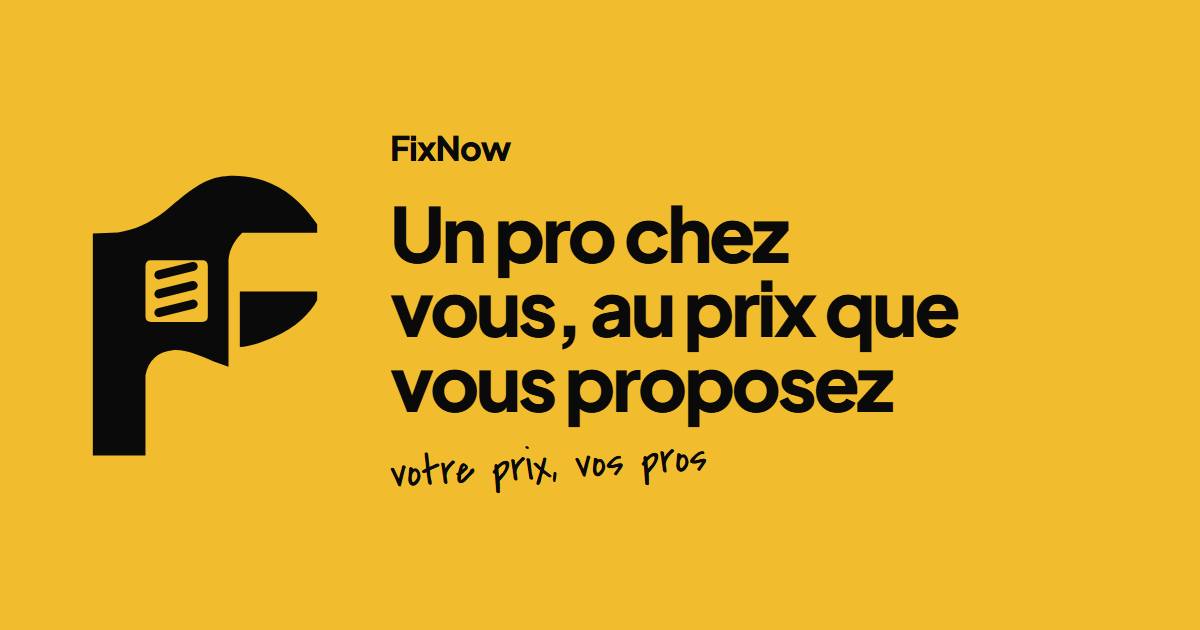
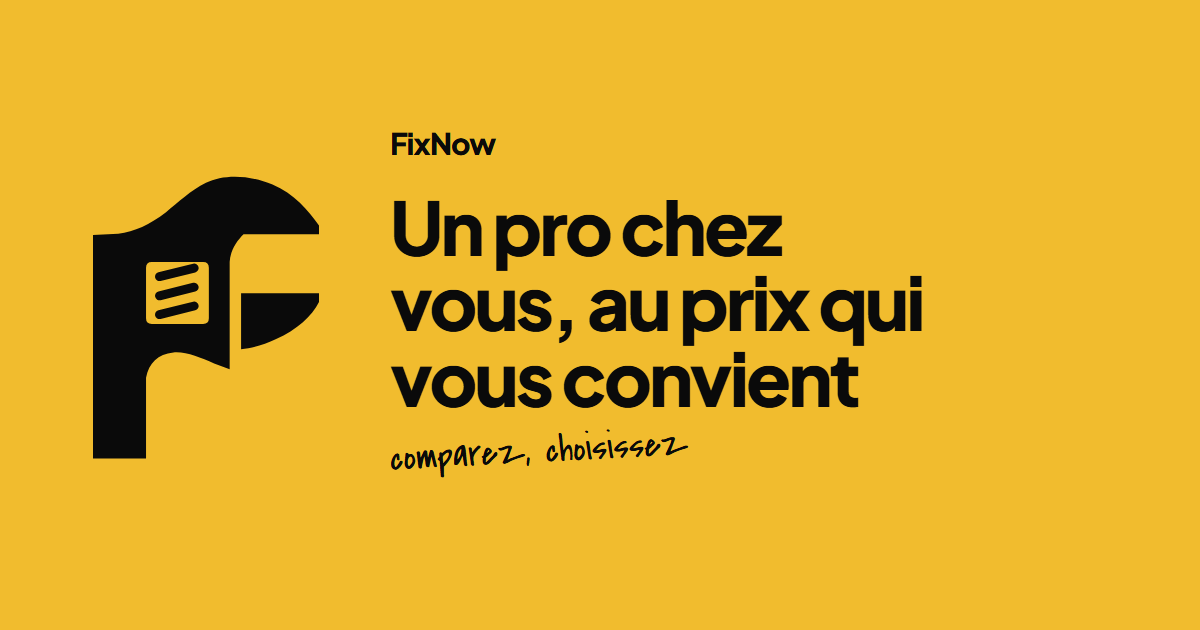
fix: décrire correctement le fonctionnement (offres des prestataires)
Ce n'est pas le client qui fixe le prix : il décrit son besoin, reçoit
les offres chiffrées de prestataires proches, les compare (prix, note,
délai) et choisit la meilleure, ou fait une contre-offre.

- accueil : meta description, Open Graph / Twitter, H1, phrase d'accroche,
  « Qu'est-ce que FixNow ? », étapes 1 et 2, section prestataires
- slogan « votre prix, vos pros » → « comparez, choisissez »
  (hero, pied de page, barre mobile, sous-ensemble de police)
- JSON-LD : description du MobileApplication
- /download/ : meta description et og:description
- llms.txt : intro et ligne « Fonctionnement »
- og-image.png régénérée avec les nouveaux textes (?v=2 pour les caches)

diff --git a/index.html b/index.html
@@ -39,7 +39,7 @@ function fixnowPlayUrl() {
 })();
 </script>
 <title>FixNow, l'app de services à domicile à Casablanca</title>
-<meta name="description" content="Application mobile de services à domicile au Maroc : plombier, électricien, lavage, ménage… Proposez votre prix, choisissez un pro vérifié à Casablanca.">
+<meta name="description" content="Application mobile de services à domicile au Maroc : plombier, électricien, lavage, ménage… Comparez les offres de pros vérifiés à Casablanca.">
 <meta name="theme-color" content="#f1bc2e">
 <link rel="canonical" href="https://fixnowapp.com/">
 
@@ -48,16 +48,16 @@ function fixnowPlayUrl() {
 <meta property="og:site_name" content="FixNow">
 <meta property="og:locale" content="fr_MA">
 <meta property="og:url" content="https://fixnowapp.com/">
-<meta property="og:title" content="FixNow : un pro chez vous, au prix que vous proposez">
-<meta property="og:description" content="Proposez votre prix, recevez les offres de prestataires vérifiés près de chez vous. iOS et Android.">
-<meta property="og:image" content="https://fixnowapp.com/og-image.png">
+<meta property="og:title" content="FixNow : un pro chez vous, au prix qui vous convient">
+<meta property="og:description" content="Recevez les offres de prestataires vérifiés près de chez vous, comparez-les et choisissez. iOS et Android.">
+<meta property="og:image" content="https://fixnowapp.com/og-image.png?v=2">
 <meta property="og:image:width" content="1200">
 <meta property="og:image:height" content="630">
-<meta property="og:image:alt" content="Logo FixNow sur fond jaune : un pro chez vous, au prix que vous proposez">
+<meta property="og:image:alt" content="Logo FixNow sur fond jaune : un pro chez vous, au prix qui vous convient">
 <meta name="twitter:card" content="summary_large_image">
-<meta name="twitter:title" content="FixNow : un pro chez vous, au prix que vous proposez">
-<meta name="twitter:description" content="Proposez votre prix, recevez les offres de prestataires vérifiés près de chez vous.">
-<meta name="twitter:image" content="https://fixnowapp.com/og-image.png">
+<meta name="twitter:title" content="FixNow : un pro chez vous, au prix qui vous convient">
+<meta name="twitter:description" content="Recevez les offres de prestataires vérifiés près de chez vous, comparez-les et choisissez.">
+<meta name="twitter:image" content="https://fixnowapp.com/og-image.png?v=2">
 
 <!-- Liens app natifs (bannière Safari iOS) -->
 <meta name="apple-itunes-app" content="app-id=6761471898">
@@ -72,7 +72,7 @@ function fixnowPlayUrl() {
 <link rel="preconnect" href="https://fonts.gstatic.com" crossorigin>
 <link rel="stylesheet" href="https://fonts.googleapis.com/css2?family=Plus+Jakarta+Sans:wght@500;600;700;800&display=swap">
 <!-- Police du slogan de l'app, chargée uniquement pour les lettres du slogan -->
-<link rel="stylesheet" href="https://fonts.googleapis.com/css2?family=Covered+By+Your+Grace&display=swap&text=votreprix%2Cvospros%20">
+<link rel="stylesheet" href="https://fonts.googleapis.com/css2?family=Covered+By+Your+Grace&display=swap&text=comparez%2Cchois%20">
 
 <!-- Données structurées. La FAQPage doit rester identique, mot pour mot, aux questions visibles de la section #faq. -->
 <script type="application/ld+json">
@@ -120,7 +120,7 @@ function fixnowPlayUrl() {
       "name": "FixNow",
       "operatingSystem": "iOS, Android",
       "applicationCategory": "LifestyleApplication",
-      "description": "Application mobile de services à domicile au Maroc : le client propose son prix et choisit parmi les offres de prestataires vérifiés.",
+      "description": "Application mobile de services à domicile au Maroc : le client reçoit les offres chiffrées de prestataires vérifiés proches, les compare et choisit la meilleure, ou fait une contre-offre.",
       "url": "https://fixnowapp.com/",
       "datePublished": "2025",
       "countriesSupported": "MA",
@@ -640,8 +640,8 @@ video.screen-map { height: 63%; object-fit: cover; object-position: center top; 
     <div class="wrap hero-inner">
       <div class="hero-copy">
         <span class="pill"><span class="pill-dot" aria-hidden="true"></span>Disponible au Maroc • iOS & Android</span>
-        <h1 id="hero-title">Un pro chez vous, au prix que vous proposez</h1>
-        <p class="hero-sub">Plombier, électricien, ménage, serrurier, déménagement… Proposez votre prix, recevez les offres de prestataires vérifiés près de chez vous, puis choisissez la meilleure</p>
+        <h1 id="hero-title">Un pro chez vous, au prix qui vous convient</h1>
+        <p class="hero-sub">Plombier, électricien, ménage, serrurier, déménagement… Recevez les offres de prestataires vérifiés près de chez vous, comparez prix, notes et délais, puis choisissez la meilleure</p>
 
         <div class="stores" id="telecharger">
           <a class="store store-ios" data-store="ios" href="https://apps.apple.com/ma/app/fixnow/id6761471898?l=fr-FR" rel="noopener">
@@ -660,7 +660,7 @@ video.screen-map { height: 63%; object-fit: cover; object-position: center top; 
       </div>
 
       <div class="stage" aria-hidden="true">
-        <p class="slogan">votre prix, vos pros
+        <p class="slogan">comparez, choisissez
           <svg viewBox="0 0 46 40" fill="none" stroke="currentColor" stroke-width="2.2" stroke-linecap="round" stroke-linejoin="round"><path d="M3 6c14-2 30 4 36 26"/><path d="M31 27l8 6 3-10"/></svg>
         </p>
         <div class="phone">
@@ -700,7 +700,7 @@ video.screen-map { height: 63%; object-fit: cover; object-position: center top; 
   <section class="about" id="fixnow" aria-labelledby="about-title">
     <div class="wrap">
       <h2 id="about-title">Qu'est-ce que FixNow ?</h2>
-      <p>FixNow est une application mobile de services à domicile au Maroc, disponible depuis 2025 sur iOS et Android. Elle met en relation les particuliers avec des prestataires vérifiés dans 12 métiers : plomberie, électricité, ménage, serrurerie, électroménager, peinture, menuiserie, jardinage, déménagement, mécanique, lavage auto et coiffure. Le client décrit son besoin et propose son prix, les prestataires proches envoient leurs offres, puis le client choisit. FixNow est actif à Casablanca.</p>
+      <p>FixNow est une application mobile de services à domicile au Maroc, disponible depuis 2025 sur iOS et Android. Elle met en relation les particuliers avec des prestataires vérifiés dans 12 métiers : plomberie, électricité, ménage, serrurerie, électroménager, peinture, menuiserie, jardinage, déménagement, mécanique, lavage auto et coiffure. Le client décrit son besoin, reçoit les offres chiffrées de prestataires proches, les compare (prix, note, délai) et choisit la meilleure. Il peut aussi faire une contre-offre à un prestataire. FixNow est actif à Casablanca.</p>
     </div>
   </section>
 
@@ -739,13 +739,13 @@ video.screen-map { height: 63%; object-fit: cover; object-position: center top; 
         <li class="step">
           <div>
             <h3>Choisissez votre service</h3>
-            <p>Décrivez le problème, ajoutez une photo ou une note vocale, et indiquez le prix que vous êtes prêt à payer</p>
+            <p>Décrivez le problème en quelques mots, avec une photo ou une note vocale si besoin</p>
           </div>
         </li>
         <li class="step">
           <div>
             <h3>Un prestataire vérifié intervient</h3>
-            <p>Les pros disponibles autour de vous envoient leur offre. Comparez prix, note et délai, puis acceptez celle qui vous convient</p>
+            <p>Les pros disponibles autour de vous envoient leur offre avec leur prix. Comparez prix, note et délai, faites une contre-offre si besoin, puis acceptez celle qui vous convient</p>
           </div>
         </li>
         <li class="step">
@@ -763,7 +763,7 @@ video.screen-map { height: 63%; object-fit: cover; object-position: center top; 
     <div class="wrap pros-inner">
       <div>
         <h2 id="pros-title">Recevez des clients près de chez vous</h2>
-        <p class="pros-lead">Artisans indépendants et agences de services : FixNow vous envoie des demandes réelles, avec le prix du client affiché dès le départ</p>
+        <p class="pros-lead">Artisans indépendants et agences de services : FixNow vous envoie des demandes réelles de clients proches, et c'est vous qui fixez le prix de votre offre</p>
         <ul class="cities" aria-label="Villes actives">
           <li class="city"><svg viewBox="0 0 24 24" aria-hidden="true"><path d="M12 21s7-6.2 7-11.5A7 7 0 0 0 5 9.5C5 14.8 12 21 12 21z"/><circle cx="12" cy="9.5" r="2.5"/></svg>Casablanca</li>
         </ul>
@@ -775,11 +775,11 @@ video.screen-map { height: 63%; object-fit: cover; object-position: center top; 
       <ul class="perks">
         <li class="perk">
           <span class="perk-icon"><svg viewBox="0 0 24 24" aria-hidden="true"><path d="M4 6h16M4 12h10M4 18h7"/><circle cx="18" cy="16" r="3"/></svg></span>
-          <div><h3>Le prix avant de vous déplacer</h3><p>Vous voyez le besoin et le prix proposé avant de vous engager</p></div>
+          <div><h3>Le besoin avant de vous déplacer</h3><p>Vous voyez la demande du client (texte, photo ou note vocale) avant d'envoyer votre offre</p></div>
         </li>
         <li class="perk">
           <span class="perk-icon"><svg viewBox="0 0 24 24" aria-hidden="true"><path d="M20.6 13.4 13.4 20.6a2 2 0 0 1-2.8 0L3 13V3h10l7.6 7.6a2 2 0 0 1 0 2.8z"/><circle cx="8" cy="8" r="1.5"/></svg></span>
-          <div><h3>Votre tarif, votre offre</h3><p>Le prix ne vous convient pas ? Envoyez votre propre offre au client</p></div>
+          <div><h3>Votre tarif, votre offre</h3><p>Vous fixez le prix de votre offre. Le client compare les offres et peut vous faire une contre-offre</p></div>
         </li>
         <li class="perk">
           <span class="perk-icon"><svg viewBox="0 0 24 24" aria-hidden="true"><circle cx="9" cy="8" r="3.5"/><path d="M2.5 20c.6-3.5 3.2-5.5 6.5-5.5s5.9 2 6.5 5.5"/><path d="M16 4.6a3.5 3.5 0 0 1 0 6.8M18 14.8c2 .7 3.2 2.5 3.5 5.2"/></svg></span>
@@ -846,7 +846,7 @@ video.screen-map { height: 63%; object-fit: cover; object-position: center top; 
     <div class="footer-top">
       <div>
         <a class="brand" href="#top" aria-label="FixNow, retour en haut de page"><span class="brand-tile"><svg class="brand-mark" aria-hidden="true"><use href="#fx-mark"/></svg></span>FixNow</a>
-        <div><span class="footer-slogan" lang="fr">votre prix, vos pros</span></div>
+        <div><span class="footer-slogan" lang="fr">comparez, choisissez</span></div>
       </div>
       <div class="stores">
         <a class="store store-ios" data-store="ios" href="https://apps.apple.com/ma/app/fixnow/id6761471898?l=fr-FR" rel="noopener">
@@ -906,7 +906,7 @@ video.screen-map { height: 63%; object-fit: cover; object-position: center top; 
 <!-- Barre de téléchargement mobile (apparaît après le hero) -->
 <div class="dock" id="dock" aria-hidden="true">
   <span class="dock-icon"><svg aria-hidden="true"><use href="#fx-mark"/></svg></span>
-  <span class="dock-text"><strong>FixNow</strong><span>Votre prix, vos pros</span></span>
+  <span class="dock-text"><strong>FixNow</strong><span>Comparez, choisissez</span></span>
   <a class="btn btn-yellow" href="/download/" data-store="auto" tabindex="-1">Télécharger</a>
 </div>
 

diff --git a/download/index.html b/download/index.html
@@ -4,7 +4,7 @@
 <meta charset="utf-8">
 <meta name="viewport" content="width=device-width, initial-scale=1, viewport-fit=cover">
 <title>Télécharger FixNow</title>
-<meta name="description" content="Téléchargez FixNow sur l'App Store ou Google Play : un pro chez vous, au prix que vous proposez.">
+<meta name="description" content="Téléchargez FixNow sur l'App Store ou Google Play : un pro chez vous, au prix qui vous convient.">
 <meta name="theme-color" content="#f1bc2e">
 <!-- Page de redirection : non indexée. Pas de canonical (il contredirait le noindex). -->
 <meta name="robots" content="noindex">
@@ -12,8 +12,8 @@
 <meta property="og:site_name" content="FixNow">
 <meta property="og:url" content="https://fixnowapp.com/download">
 <meta property="og:title" content="Télécharger FixNow">
-<meta property="og:description" content="Un pro chez vous, au prix que vous proposez. iOS et Android.">
-<meta property="og:image" content="https://fixnowapp.com/og-image.png">
+<meta property="og:description" content="Un pro chez vous, au prix qui vous convient. iOS et Android.">
+<meta property="og:image" content="https://fixnowapp.com/og-image.png?v=2">
 <meta name="twitter:card" content="summary_large_image">
 <link rel="icon" href="/favicon.ico" sizes="48x48">
 <link rel="icon" type="image/svg+xml" href="/favicon.svg">
